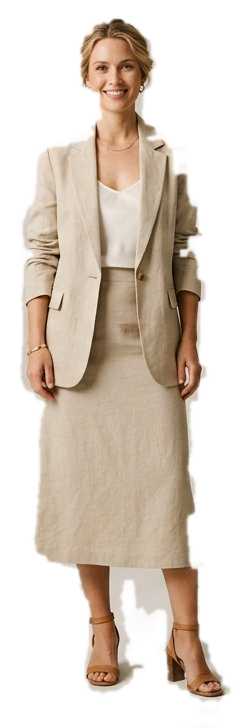
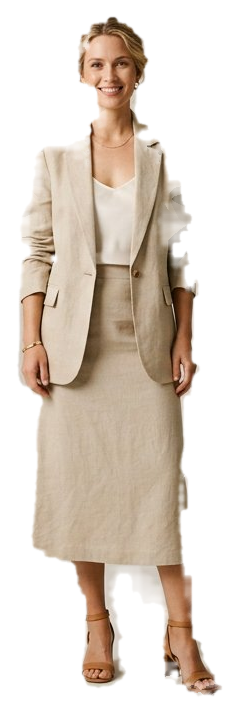
Recut models with clean alpha pipeline; compose paper-backed README hero
- cutout_v2: mediapipe mask, soft alpha ramp, no forced core boost,
  nearest-foreground colour replacement for partial pixels
- tighten: crush residual low alphas, 1px grey erosion, feather
- README hero is now a composed warm-paper banner (make_hero.py) that
  reads on both GitHub themes; site cutouts benefit equally

diff --git a/tools/make_hero.py b/tools/make_hero.py
@@ -1,0 +1,69 @@
+#!/usr/bin/env python3
+"""Compose the README/social hero: the women's runway lineup on warm paper,
+mirroring the site's depth slots (front model sharp at right)."""
+from PIL import Image, ImageDraw, ImageFilter
+import math
+
+W, H = 2400, 1080
+PAPER = (244, 243, 240)
+
+canvas = Image.new('RGB', (W, H), PAPER)
+draw = ImageDraw.Draw(canvas, 'RGBA')
+
+# soft vignette backdrop
+d = ImageDraw.Draw(canvas, 'RGBA')
+for r, alpha in [(1500, 10), (1100, 14), (750, 18)]:
+    d.ellipse([W // 2 - r, H // 2 - int(r * .62), W // 2 + r, H // 2 + int(r * .62)], fill=(21, 20, 18, 0))
+
+# floor sheen
+floor = Image.new('RGBA', (W, H), (0, 0, 0, 0))
+fd = ImageDraw.Draw(floor)
+fd.rectangle([0, H - 150, W, H], fill=(21, 20, 18, 14))
+canvas.paste(Image.alpha_composite(canvas.convert('RGBA'), floor).convert('RGB'), (0, 0))
+d = ImageDraw.Draw(canvas, 'RGBA')
+
+SLOTS = [  # (look, left_pct_of_W, scale_of_SLOT0_height, bottom_offset_px)
+    ('women-1', .79, 1.00, 0),
+    ('women-2', .575, .80, 26),
+    ('women-3', .415, .67, 56),
+    ('women-4', .285, .57, 82),
+    ('women-5', .175, .50, 108),
+    ('women-6', .075, .44, 128),
+]
+BASE_H = 800
+
+def shadow(cx, width, bottom, strength):
+    sh = Image.new('RGBA', (W, H), (0, 0, 0, 0))
+    sd = ImageDraw.Draw(sh)
+    sd.ellipse([cx - width // 2, bottom - 16, cx + width // 2, bottom + 16], fill=(21, 20, 18, strength))
+    return sh.filter(ImageFilter.GaussianBlur(10))
+
+def glow(cx, bottom, radius):
+    g = Image.new('RGBA', (W, H), (0, 0, 0, 0))
+    gd = ImageDraw.Draw(g)
+    for i, a in enumerate([130, 80, 40, 18]):
+        rr = radius - i * 42
+        gd.ellipse([cx - rr, bottom - 30 - i * 8, cx + rr, bottom + 34 + i * 6], fill=(255, 255, 255, a))
+    return g.filter(ImageFilter.GaussianBlur(24))
+
+FLOOR = H - 24
+# paint back-to-front so the front model overlaps
+for name, left, scale, lift in reversed(SLOTS):
+    cut = Image.open(f'assets/img/cut/{name}.png')
+    h = int(BASE_H * scale)
+    w = round(cut.width * h / cut.height)
+    cut = cut.resize((w, h), Image.LANCZOS)
+    if left + (w / W) / 2 > 1:
+        cut = cut.resize((int(w * .96), int(h * .96)), Image.LANCZOS)
+        w, h = cut.size
+    cx = int(left * W)
+    bottom = FLOOR - lift
+    # oval floor shadow (front stronger)
+    strength = int(150 * scale)
+    canvas.paste(Image.alpha_composite(canvas.convert('RGBA'), shadow(cx, int(w * 1.5), bottom, strength)).convert('RGB'), (0, 0))
+    if name == 'women-1':
+        canvas.paste(Image.alpha_composite(canvas.convert('RGBA'), glow(cx, bottom, 300)).convert('RGB'), (0, 0))
+    canvas.paste(cut, (cx - w // 2, bottom - h), cut)
+
+canvas.save('assets/img/lineup-hero.jpg', 'JPEG', quality=90, optimize=True, progressive=True)
+print('hero saved', canvas.size)

diff --git a/tools/cutout_v2.py b/tools/cutout_v2.py
@@ -1,0 +1,65 @@
+#!/usr/bin/env python3
+"""Clean cutout pipeline — v2. No forced core-boost this time.
+
+Alpha comes straight from the selfie-segmentation mask with a soft ramp,
+largest connected component kept, holes filled, then background un-mixing.
+Colours of partial pixels are pulled toward the nearest foreground colour
+(decontamination), so no background tint survives on any backdrop.
+
+Usage: python3 tools/cutout_v2.py <src-jpg> <dst-png>
+"""
+import sys
+import numpy as np
+import mediapipe as mp
+from PIL import Image, ImageFilter
+from scipy import ndimage
+
+def estimate_bg(src):
+    w, h = src.size
+    pts = [src.getpixel((2,2)), src.getpixel((w-3,2)), src.getpixel((2,h-3)), src.getpixel((w-3,h-3)),
+           src.getpixel((w//2,2)), src.getpixel((2,h//2)), src.getpixel((w-3,h//2)), src.getpixel((w//2,h-3))]
+    return np.array(pts, dtype=np.float32).mean(axis=0)
+
+seg = mp.solutions.selfie_segmentation.SelfieSegmentation(model_selection=1)
+
+def run(src_path, dst_path, max_h=1500):
+    img = Image.open(src_path).convert('RGB')
+    arr = np.array(img)
+    mask = seg.process(arr).segmentation_mask.astype(np.float32)
+    bg = estimate_bg(img)
+
+    alpha = np.clip((mask - 0.34) * 3.4, 0, 1) ** 1.15
+
+    core = alpha > 0.45
+    core = ndimage.binary_fill_holes(core)
+    lab, n = ndimage.label(core)
+    if n > 1:
+        sizes = ndimage.sum(np.ones_like(lab), lab, range(1, n + 1))
+        core = lab == (np.argmax(sizes) + 1)
+    alpha = np.where(core, alpha, 0.0)
+
+    rgb = arr.astype(np.float32)
+    # un-mix background from partial pixels
+    safe = np.clip(alpha, 1e-3, 1.0)
+    rgb = np.clip((rgb - (1.0 - alpha[..., None]) * bg[None, None, :]) / safe[..., None], 0, 255)
+    # nearest-foreground colour for anything not solid
+    fg = alpha > 0.92
+    if fg.any():
+        ind = ndimage.distance_transform_edt(~fg, return_distances=False, return_indices=True)
+        rgb = np.where(fg[..., None], rgb, rgb[tuple(ind)])
+    out = np.dstack([rgb, (alpha * 255).astype(np.uint8)]).astype(np.uint8)
+    im = Image.fromarray(out, 'RGBA')
+    bbox = im.getbbox()
+    if bbox:
+        pad = 16
+        l, t, r, b = bbox
+        l, t, r, b = max(0, l - pad), max(0, t - pad), min(im.width, r + pad), min(im.height, b + pad)
+        im = im.crop((l, t, r, b))
+    if im.height > max_h:
+        im = im.resize((round(im.width * max_h / im.height), max_h), Image.LANCZOS)
+    im.putalpha(im.getchannel('A').filter(ImageFilter.GaussianBlur(0.6)))
+    im.save(dst_path, 'PNG', optimize=True)
+    print(dst_path, im.size)
+
+if __name__ == '__main__':
+    run(sys.argv[1], sys.argv[2])

diff --git a/tools/tighten.py b/tools/tighten.py
@@ -1,0 +1,19 @@
+#!/usr/bin/env python3
+"""Final tightening: crush low/mid alphas toward zero so no background haze
+survives; slight erode; 1px feather. Usage: python3 tools/tighten.py <png> ..."""
+import sys
+import numpy as np
+from PIL import Image, ImageFilter
+from scipy import ndimage
+
+for path in sys.argv[1:]:
+    im = Image.open(path).convert('RGBA')
+    a = np.array(im).astype(np.float32)
+    alpha = a[..., 3] / 255.0
+    alpha = np.clip((alpha - 0.16) / 0.84, 0, 1) ** 1.45
+    alpha = ndimage.grey_erosion(alpha, size=(3, 3))   # 1px shave
+    a[..., 3] = (alpha * 255).astype(np.uint8)
+    out = Image.fromarray(a.astype(np.uint8), 'RGBA')
+    out.putalpha(out.getchannel('A').filter(ImageFilter.GaussianBlur(0.6)))
+    out.save(path, 'PNG', optimize=True)
+    print('tightened', path)

diff --git a/README.md b/README.md
@@ -1,5 +1,5 @@
 <p align="center">
-  <img src="assets/img/cut/women-1.png" alt="LINEUP — Fall '26, the runway lineup" height="360">
+  <img src="assets/img/lineup-hero.jpg" alt="LINEUP — Fall '26, the runway lineup: six looks styled head to toe" width="880">
 </p>
 
 <h1 align="center">LINEUP</h1>
@@ -57,7 +57,7 @@ Warm paper `#f4f3f0` · ink `#151412` · muted grey `#77736c` · hairline `#e3e0
 
 ## 📦 Status & assets
 
-This is a functional demo storefront. Ten model photographs were generated and background-removed locally; product images are technical flat-lay illustrations (`tools/make_flats.py`). See `CHANGELOG.md` for exactly what is real and what is placeholder — the full guide to swapping in real photography is in [`docs/CUSTOMIZATION.md`](docs/CUSTOMIZATION.md).
+This is a functional demo storefront. Ten model photographs were generated and background-removed locally (`tools/cutout_v2.py` → `tools/tighten.py`); product images are technical flat-lay illustrations (`tools/make_flats.py`); the banner above is composed by `tools/make_hero.py`. See `CHANGELOG.md` for exactly what is real and what is placeholder — the full guide to swapping in real photography is in [`docs/CUSTOMIZATION.md`](docs/CUSTOMIZATION.md).
 
 ## 🤝 Contributing
 
